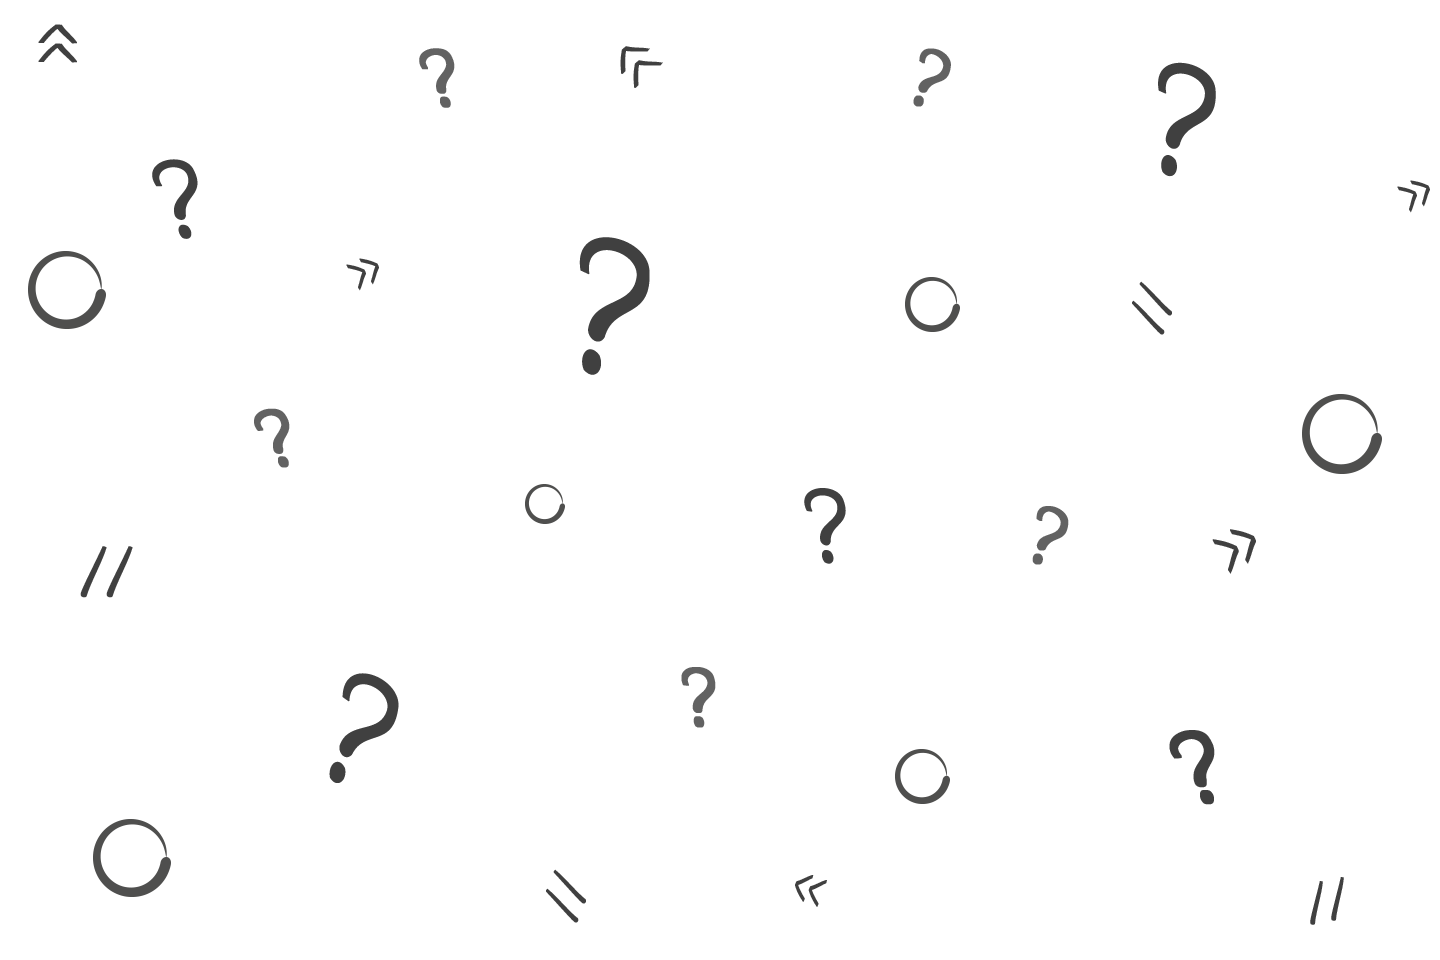
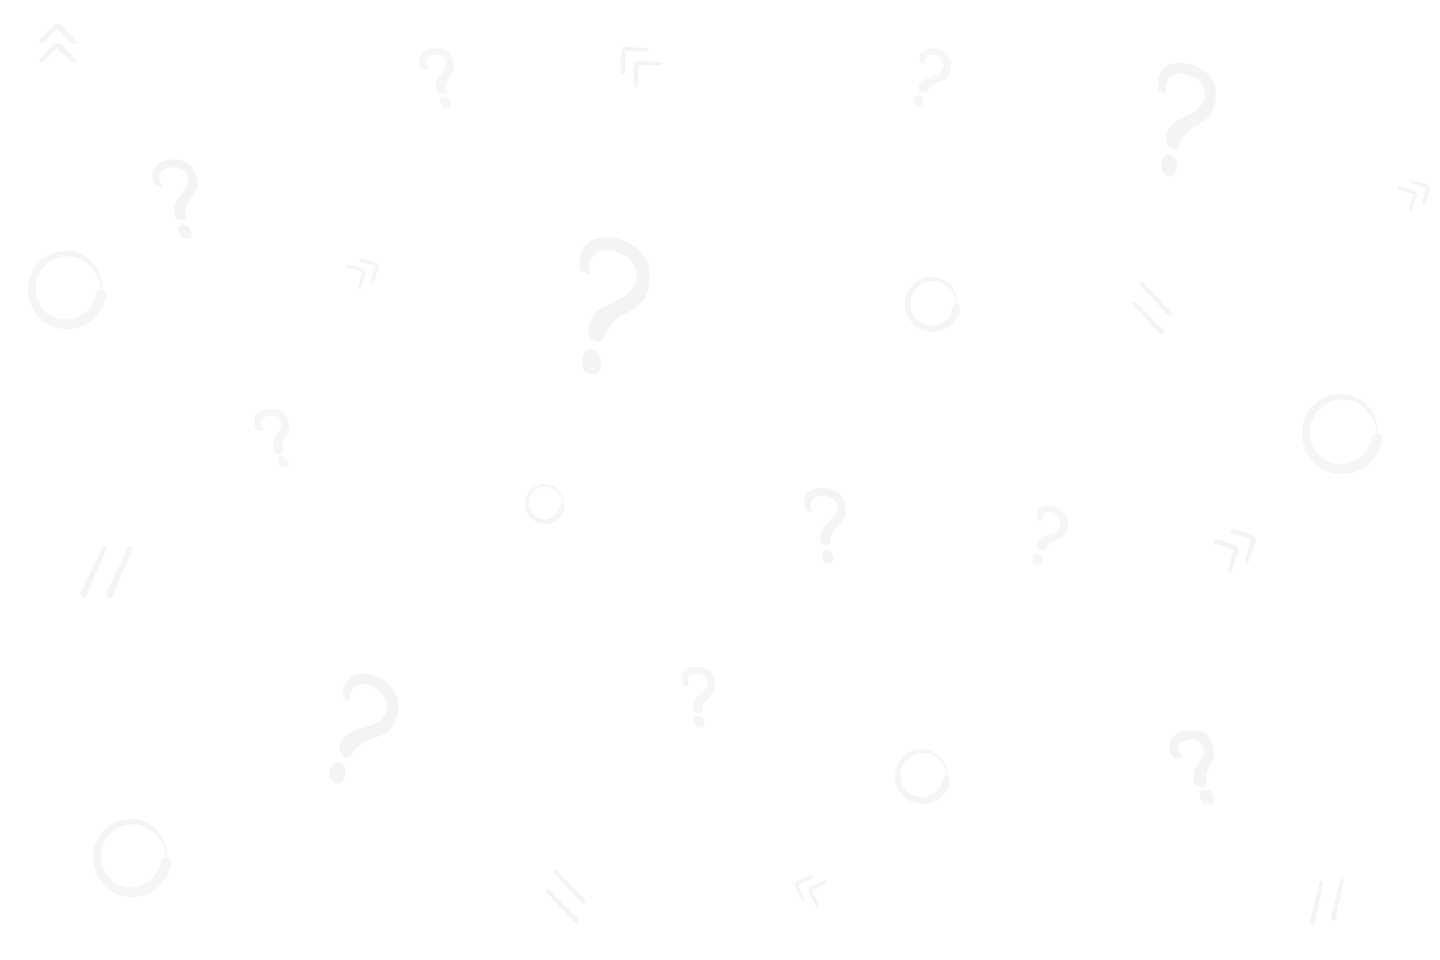
Add styles for header

diff --git a/src/index.html b/src/index.html
@@ -15,20 +15,24 @@
 </head>
 
 <body>
-  <header>
-    <h1>
-      <span>Когнитивные искажения</span><br>
-      <span>в программировании</span>
-    </h1>
-    <img src="images/main.png" alt="Тото, постигающий азы программирования." width="1083" height="525">
-    <p>Мы, разработчики, часто сталкиваемся с проблемами, которые идут вразрез с нашей продуктивностью. Но мы часто
-      игнорируем целостную картину. Некоторые из этих проблем малозаметны, некоторые существенны. Иногда с ними можно
-      как-то справиться, а иногда, к сожалению, нет.</p>
-    <p>Вместе они формируют что-то вроде замкнутого цикла, и это может привести к длительной потере продуктивности,
-      багам и бесконечному разочарованию.</p>
-    <p>Если мы сможем минимизировать воздействие одного или нескольких из этих факторов, то сможем сломать и цикл, а
-      остатки нейтрализовать.</p>
-    <a href="#">Подробнее</a>
+  <header class="page-section theme-light bg-pattern o-h">
+    <div class="container pos-r">
+      <h1 class="heading main-heading heading-large">
+        <span class="text-bright">Когнитивные искажения</span><br>
+        <span>в программировании</span>
+      </h1>
+      <img class="main-image" src="images/main.png" alt="Тото, постигающий азы программирования." width="1083" height="525">
+      <div class="text-columns">
+        <p class="text m-0 mb-15">Мы, разработчики, часто сталкиваемся с проблемами, которые идут вразрез с нашей продуктивностью. Но мы часто
+          игнорируем целостную картину. Некоторые из этих проблем малозаметны, некоторые существенны. Иногда с ними можно
+          как-то справиться, а иногда, к сожалению, нет.</p>
+        <p class="text m-0 mb-15 brb-c">Вместе они формируют что-то вроде замкнутого цикла, и это может привести к длительной потере продуктивности,
+          багам и бесконечному разочарованию.</p>
+        <p class="text m-0 mb-15">Если мы сможем минимизировать воздействие одного или нескольких из этих факторов, то сможем сломать и цикл, а
+          остатки нейтрализовать.</p>
+        <a class="button main-button" href="#">Подробнее</a>
+      </div>
+    </div>
   </header>
 
   <main>

diff --git a/src/styles/style.css b/src/styles/style.css
@@ -137,3 +137,51 @@ html {
   background-color: var(--theme-dark);
 }
 
+/* Atomic styles */
+
+.pos-r { position: relative; }
+.m-0 { margin: 0; }
+.mb-15 { margin-bottom: 15px; }
+.o-h { overflow: hidden; }
+.brb-c { break-before: column; }
+
+/* MAIN */
+
+.page-section {
+  padding: 100px 0;
+}
+
+.bg-pattern {
+  background-image: url("../images/background.png");
+  background-repeat: no-repeat;
+  background-position: top center;
+  background-size: cover;
+}
+
+.main-heading {
+  position: relative;
+  z-index: 1;
+
+  width: 580px;
+  margin: 0;
+  margin-bottom: 200px;
+}
+
+.main-image {
+  position: absolute;
+  top: -45px;
+  right: -255px;
+}
+
+.text-columns {
+  column-count: 2;
+  column-gap: 30px;
+}
+
+.main-button {
+  display: inline-block;
+  margin-top: 25px;
+  padding: 12px 24px;
+
+  vertical-align: baseline;
+}
